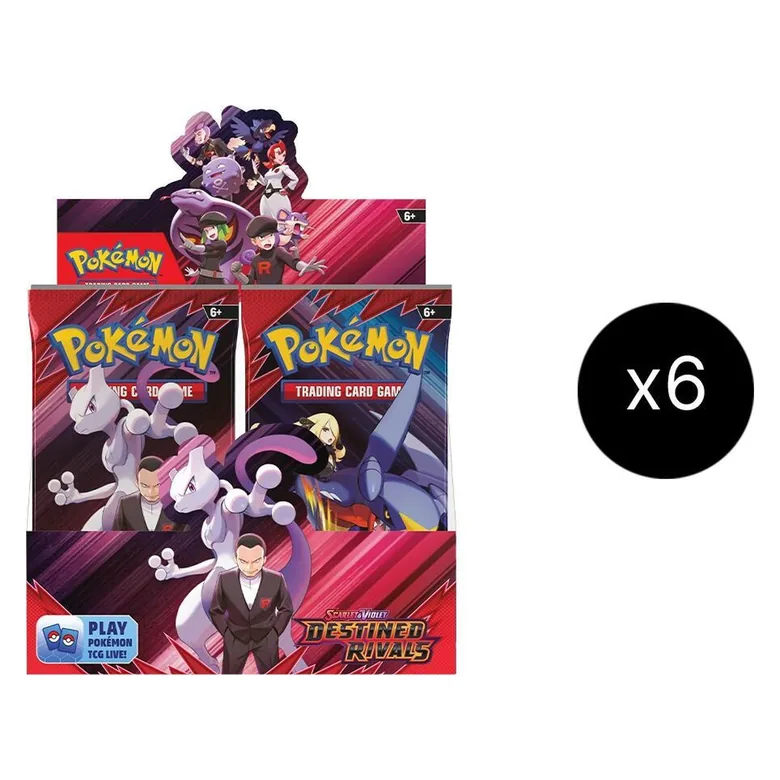
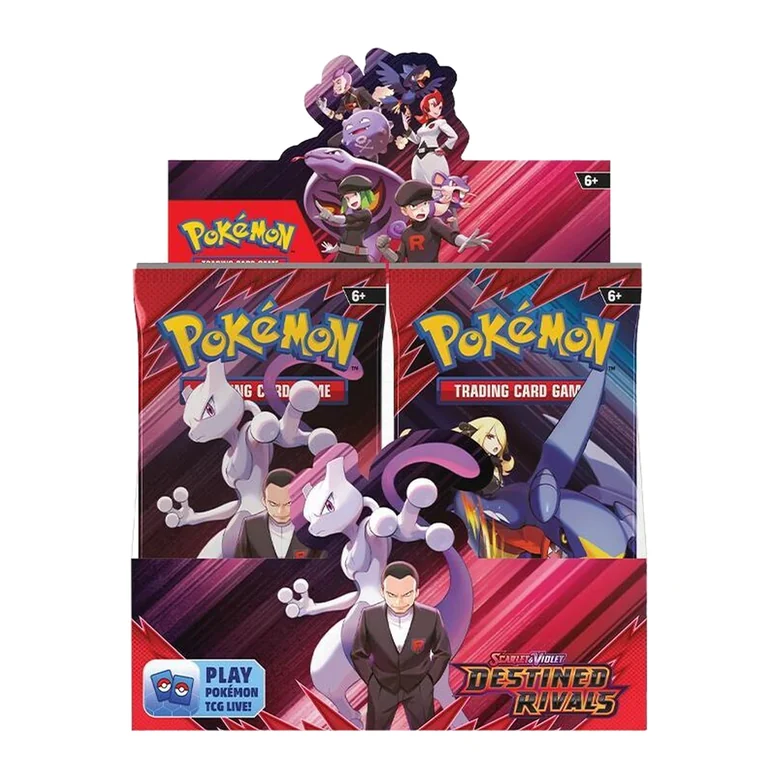
Replace Destined Rivals image with a single box on white
The listing photo carried an 'x6' stock badge composited onto it. Google
disallows promotional overlays on the main product image, and it was the one
item most likely to be rejected. Rebuilt from the existing clean cut-out in
hef-story-sealed: single box, white ground, product at 88% of frame.

Also drops the description's 'the photo shows the sealed case' disclaimer,
which only existed because the old image was misleading and is now false.

diff --git a/products/sv10-destined-rivals-booster-box.html b/products/sv10-destined-rivals-booster-box.html
@@ -36,7 +36,7 @@
     "@context": "https://schema.org",
     "@type": "Product",
     "name": "Pokemon SV10 Destined Rivals Sealed Booster Box",
-    "description": "Factory sealed Scarlet & Violet Destined Rivals (SV10) booster box — 36 packs, case-fresh and unsearched. The Team Rocket expansion, headlined by Team Rocket's Mewtwo ex and Cynthia's Garchomp ex. These were opened from a sealed manufacturer's case, so every box is untouched and unweighed. Six available. The photo shows the sealed case they came out of, not the individual box — you receive one sealed booster box.",
+    "description": "Factory sealed Scarlet & Violet Destined Rivals (SV10) booster box — 36 packs, case-fresh and unsearched. The Team Rocket expansion, headlined by Team Rocket's Mewtwo ex and Cynthia's Garchomp ex. These were opened from a sealed manufacturer's case, so every box is untouched and unweighed. Six available.",
     "image": [
       "https://highendfire.com.au/images/products/sv10-destined-rivals-booster-box-1.webp"
     ],
@@ -159,7 +159,7 @@
           <div class="product-card__info">
             <span class="product-card__condition">SEALED — MINT</span>
             <h3 class="product-card__name"><a href="/products/sv10-destined-rivals-booster-box" class="product-card__link">Destined Rivals SV10 Sealed Booster Box</a></h3>
-            <p class="product-card__desc">Factory sealed Scarlet &amp; Violet Destined Rivals (SV10) booster box — 36 packs, case-fresh and unsearched. The Team Rocket expansion, headlined by Team Rocket's Mewtwo ex and Cynthia's Garchomp ex. These were opened from a sealed manufacturer's case, so every box is untouched and unweighed. Six available. The photo shows the sealed case they came out of, not the individual box — you receive one sealed booster box.</p>
+            <p class="product-card__desc">Factory sealed Scarlet &amp; Violet Destined Rivals (SV10) booster box — 36 packs, case-fresh and unsearched. The Team Rocket expansion, headlined by Team Rocket's Mewtwo ex and Cynthia's Garchomp ex. These were opened from a sealed manufacturer's case, so every box is untouched and unweighed. Six available.</p>
             <div class="product-card__footer">
               <span class="product-card__price price-shimmer">$800<small>.00 AUD</small></span>
               <button class="btn btn--primary btn--xs btn-add-to-cart">Add to Cart</button>

diff --git a/index.html b/index.html
@@ -1236,7 +1236,7 @@
           <div class="product-card__info">
             <span class="product-card__condition">SEALED — MINT</span>
             <h3 class="product-card__name"><a href="/products/sv10-destined-rivals-booster-box" class="product-card__link">Destined Rivals SV10 Sealed Booster Box</a></h3>
-            <p class="product-card__desc">Factory sealed Scarlet &amp; Violet Destined Rivals (SV10) booster box — 36 packs, case-fresh and unsearched. The Team Rocket expansion, headlined by Team Rocket's Mewtwo ex and Cynthia's Garchomp ex. These were opened from a sealed manufacturer's case, so every box is untouched and unweighed. Six available. The photo shows the sealed case they came out of, not the individual box — you receive one sealed booster box.</p>
+            <p class="product-card__desc">Factory sealed Scarlet &amp; Violet Destined Rivals (SV10) booster box — 36 packs, case-fresh and unsearched. The Team Rocket expansion, headlined by Team Rocket's Mewtwo ex and Cynthia's Garchomp ex. These were opened from a sealed manufacturer's case, so every box is untouched and unweighed. Six available.</p>
             <div class="product-card__footer">
               <span class="product-card__price price-shimmer">$800<small>.00 AUD</small></span>
               <button class="btn btn--primary btn--xs btn-add-to-cart">Add to Cart</button>
